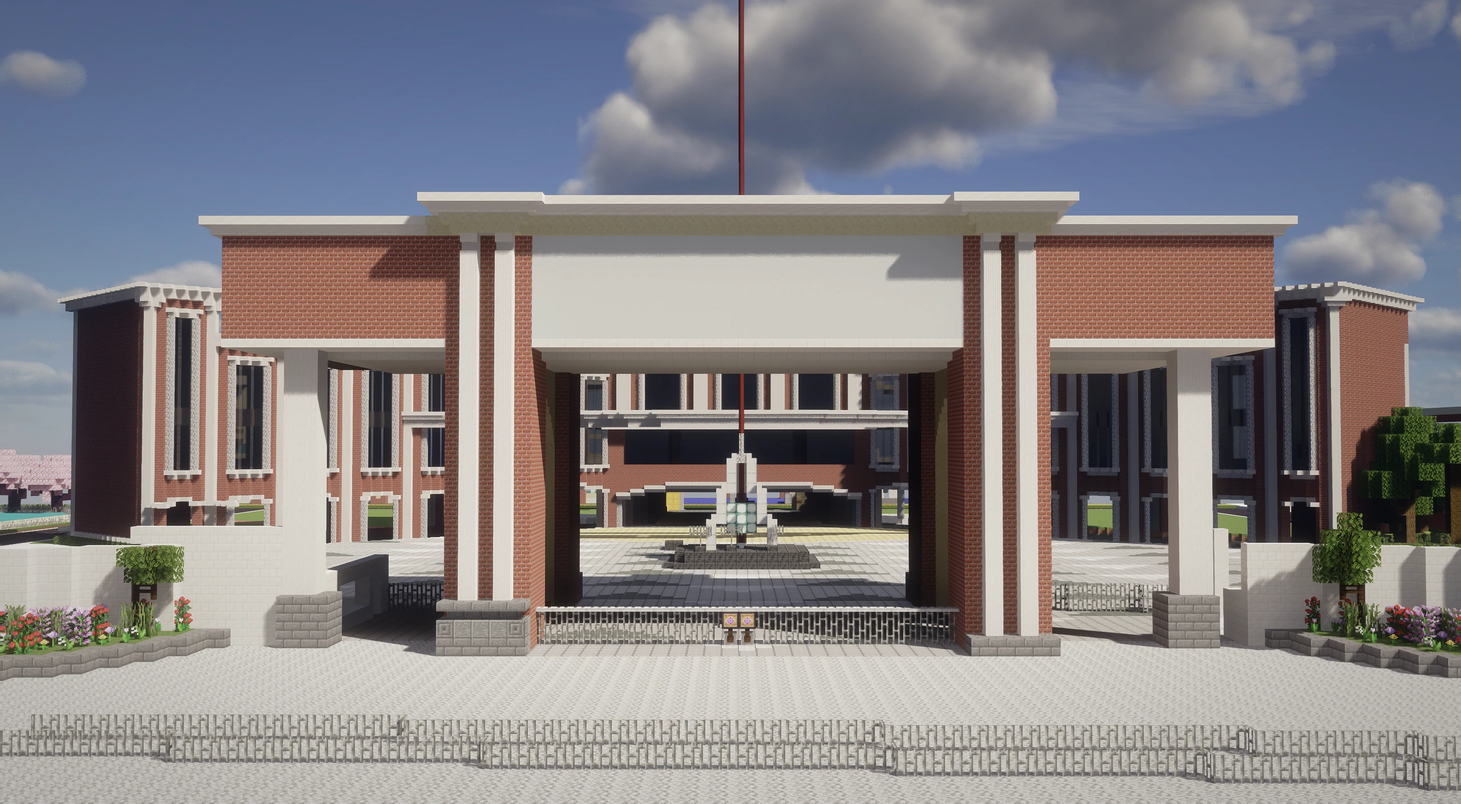
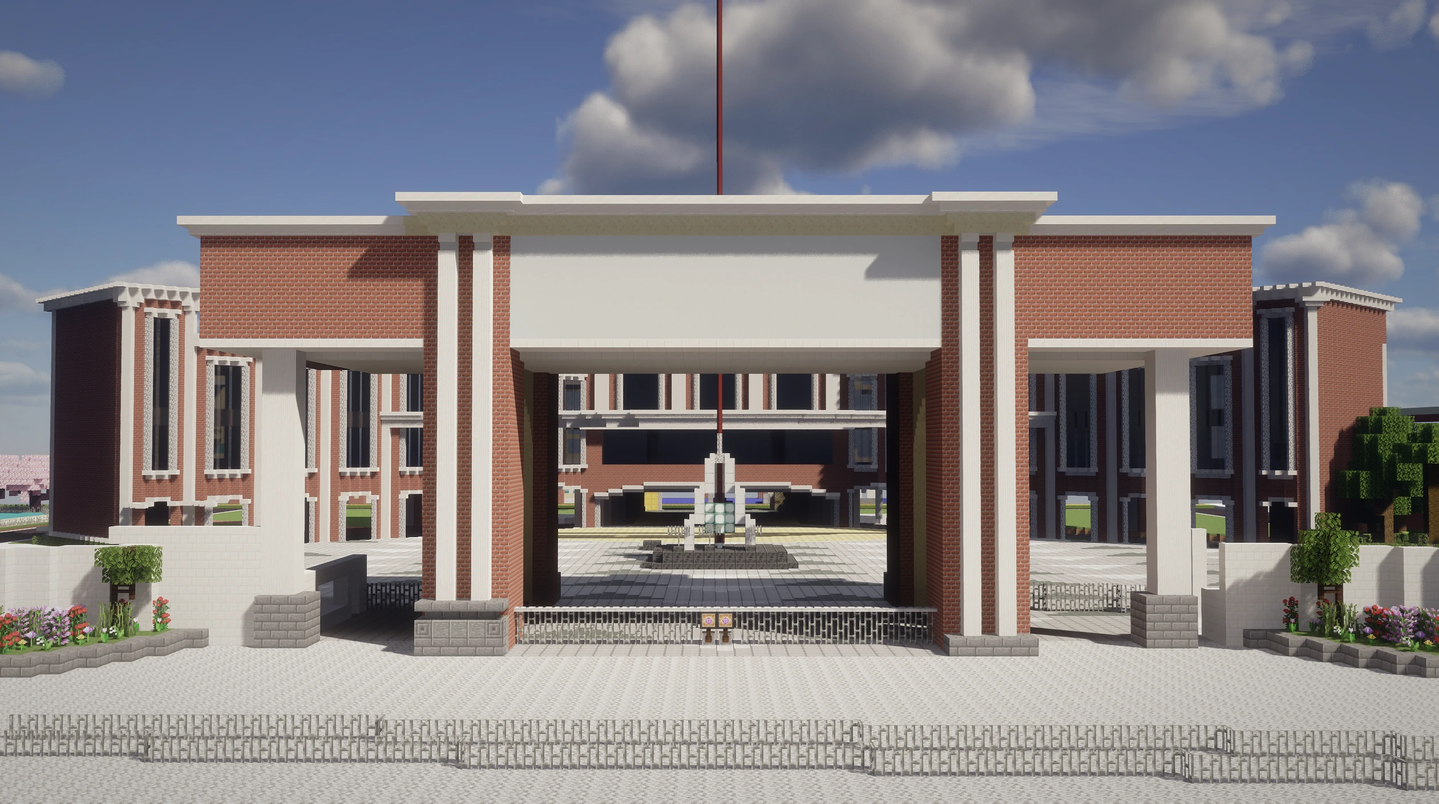
Center campus image on the beacon beam

diff --git a/style.css b/style.css
@@ -428,12 +428,12 @@
 
       --font-ui: "Source Serif 4", "Noto Serif SC", Georgia, serif;
       --nav-h: var(--md-top-app-bar-container-height);
-      --hero-image: url("./image.webp?v=105");
+      --hero-image: url("./image.webp?v=106");
       /* hero 以下页面大背景 = 主图预烘焙模糊版（image-blur.webp，构建期
          烘焙落盘，零运行时模糊），铺满 hero 以下除卡片外的全部背景
          （替代旧波场的位置）；浅色蒙版（表面 55% 半透明，模糊图 45%
          可见，对比度预算见 2026-10-05 日志），深色蒙版见下方覆盖块 */
-      --page-bg-image: url("./image-blur.webp?v=105");
+      --page-bg-image: url("./image-blur.webp?v=106");
       /* 主题色蒙版 = 旧「55% surface 蒙版 + 7% primary 氛围 tint」双层的
          数学合成：alpha 0.5815 = 0.07+0.55×0.93，色 =
          88% surface + 12% primary = (0.55×0.93·S+0.07·P)/0.5815 ——
@@ -457,14 +457,14 @@
          fixed 层，落点逐像素重合）—— 位置、尺寸、裁切范围像素级一致。
          几何 = 16:9 源图 cover 再放大 1.08 的旧构图（旧 transform:
          scale(1.08) 使原图与模糊层裁切不一致，已废）的解析等价：
-           宽 w = max(1.08W, 1.08H × 2560/1410)，高按源图比例自动；
+           宽 w = max(1.08W, 1.08H × 2522/1410)，高按源图比例自动；
            左上角 = 绕视口中心缩放后落点：
              x = (W-w)/2（即 background-position 50%）；
              y = 44.6svh - 0.45h = 44.6svh - max(27.3375vw, 48.6svh)。
          高度基准用 svh（小视口单位，恒等于地址栏/底栏全展开的视口高）：
          自动隐藏底栏、地址栏收起导致的视口高度变化不再挪动背景图
          ——"背景图固定位置"。JS 侧 alignPageBg 同步按宽度变化才重算。 */
-      --page-bg-size: max(108vw, 196.085106svh) auto;
+      --page-bg-size: max(108vw, 193.174468svh) auto;
       --page-bg-pos: 50% calc(44.6svh - max(27.3375vw, 48.6svh));
 
       /* 主题切换过渡（色面类属性，300ms standard 曲线） */

diff --git a/index.html b/index.html
@@ -9,7 +9,7 @@
   <link rel="preconnect" href="https://fonts.gstatic.com" crossorigin />
   <link href="https://fonts.googleapis.com/css2?family=Noto+Serif+SC:wght@400;500&family=Source+Serif+4:opsz,wght@8..60,400;8..60,500&display=swap" rel="stylesheet" />
   <!-- ?v= 资源版本号：发布站无缓存响应头时击穿浏览器启发式缓存，改版即换号 -->
-  <link rel="stylesheet" href="style.css?v=105" />
+  <link rel="stylesheet" href="style.css?v=106" />
 
 </head>
 <body>
@@ -393,15 +393,15 @@
   </dialog>
 
   <!-- 开源库 libs.js：Material Color Utilities（Apache-2.0）—— simplex-noise 已随波场迭代移除 -->
-  <script src="libs.js?v=105"></script>
+  <script src="libs.js?v=106"></script>
   <!-- 站点逻辑 main.js：动态取色 + 主题切换 + 页面交互 -->
-  <script src="i18n.js?v=105"></script>
-  <script src="main.js?v=105"></script>
+  <script src="i18n.js?v=106"></script>
+  <script src="main.js?v=106"></script>
   <script>
     /* 仅诊断链接启用，不影响正常访问。 */
     if (new URLSearchParams(location.search).get("diagnose") === "layers") {
       var layerProbe = document.createElement("script");
-      layerProbe.src = "diagnostics.js?v=105";
+      layerProbe.src = "diagnostics.js?v=106";
       document.head.appendChild(layerProbe);
     }
   </script>

diff --git a/main.js b/main.js
@@ -46,7 +46,7 @@
           }
           if (W === lastW && H === lastH && dpr === lastDpr) { return; }
           lastW = W; lastH = H; lastDpr = dpr;
-          var imageRatio = 2560 / 1410;
+          var imageRatio = 2522 / 1410;
           var wCss = Math.max(W * 1.08, H * 1.08 * imageRatio);
           var hCss = wCss / imageRatio;
           var xCss = (W - wCss) / 2;                 /* = 50% 背景定位 */
